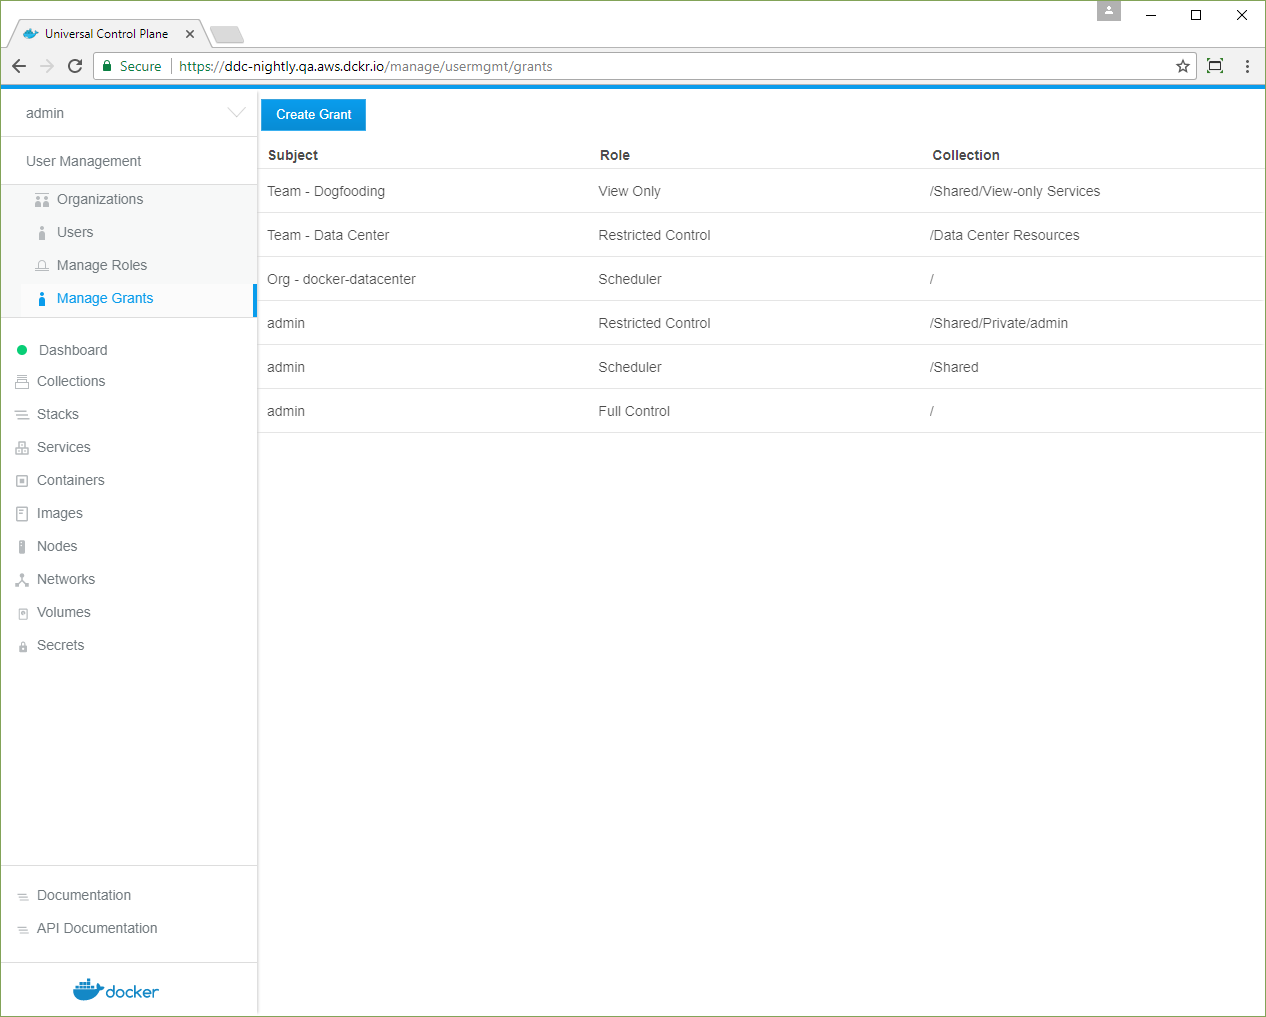
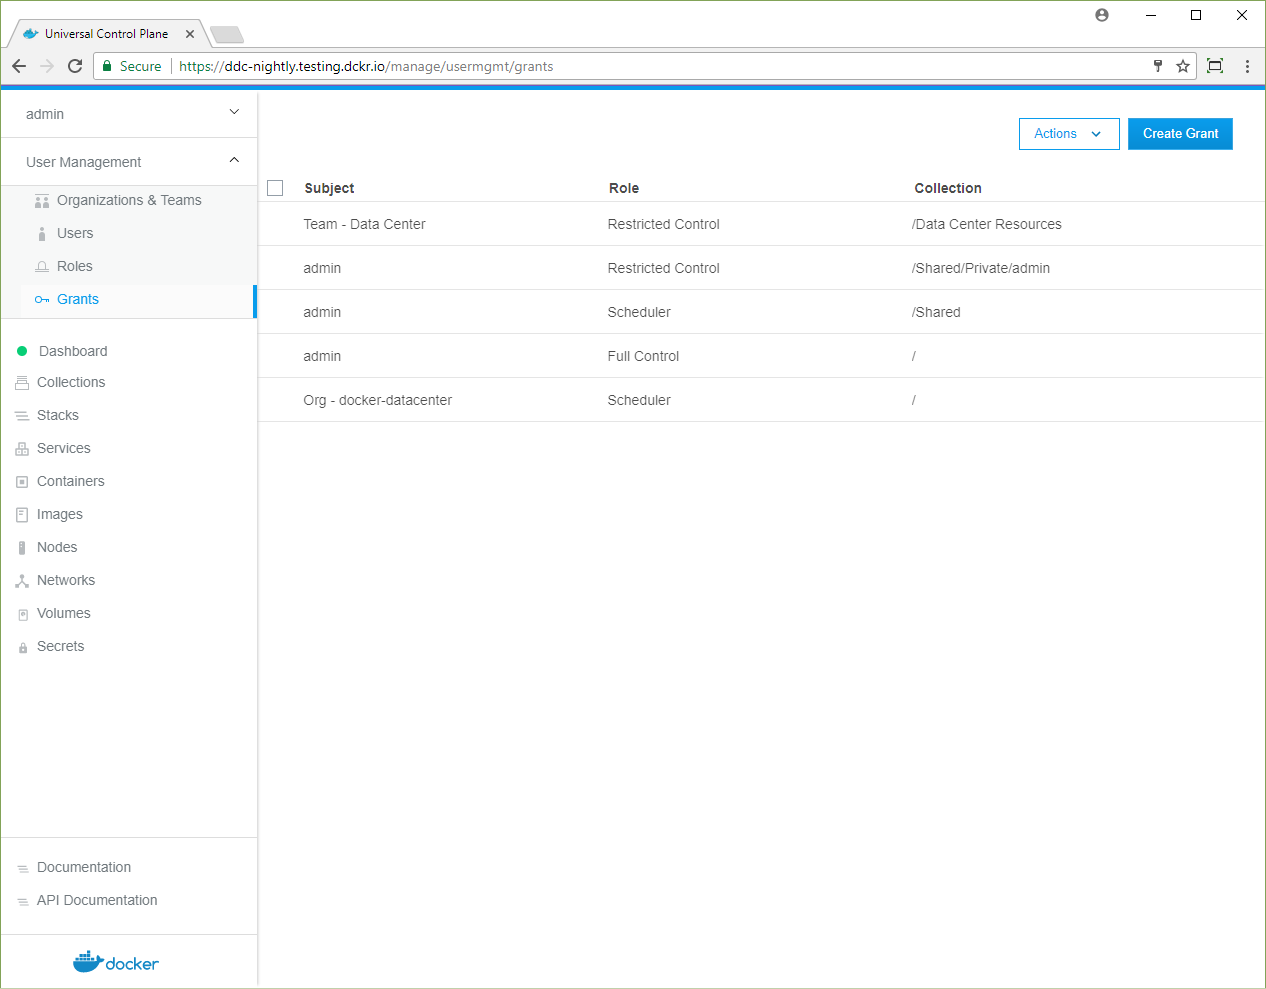
Add diagram to teams rbac topic (#212)

diff --git a/datacenter/ucp/2.2/guides/admin/manage-users/create-and-manage-teams.md b/datacenter/ucp/2.2/guides/admin/manage-users/create-and-manage-teams.md
@@ -84,10 +84,32 @@ are fully synced.
 
 Create a grant to manage the team's permissions.
 [Learn how to grant permissions to users based on roles](grant-permissions.md).
+In this example, you'll create a collection for the "Data Center" team, 
+where they can deploy services and resources, and you'll create a grant that
+gives the team permission to access the collection.
+
+![](../../images/team-grant-diagram.svg){: .with-border}
+
+1.  Navigate to the **Organizations & Teams** page.
+2.  Select **docker-datacenter**, and click **Create Team**. Name the team
+    "Data Center", and click **Create**.
+3.  Navigate to the **Collections** page.
+4.  Click **Create Collection**, name the collection "Data Center Resources",
+    and click **Create**.
+5.  Navigate to the **Grants** page, and click **Create Grant**.
+6.  Find **Swarm** in the collections list, and click **View Children**.
+7.  Find **Data Center Resources**, and click **Select Collection**.
+8.  In the left pane, click **Roles** and in the **Role** dropdown, select
+    **Restricted Control**.   
+9.  In the left pane, click **Subjects** and select the **Organizations**
+    subject type. 
+10. In the **Organization** dropdown, select **docker-datacenter**, and in the
+   **Teams** dropdown, select **Data Center**.
+11. Click **Create** to create the grant. 
 
 ![](../../images/create-and-manage-teams-4.png){: .with-border}
 
-In the example above, members of the `Data Center` team have
+In this example, you gave members of the `Data Center` team
 `Restricted Control` permissions to create and edit resources in
 the `Data Center Resources` collection.
 
